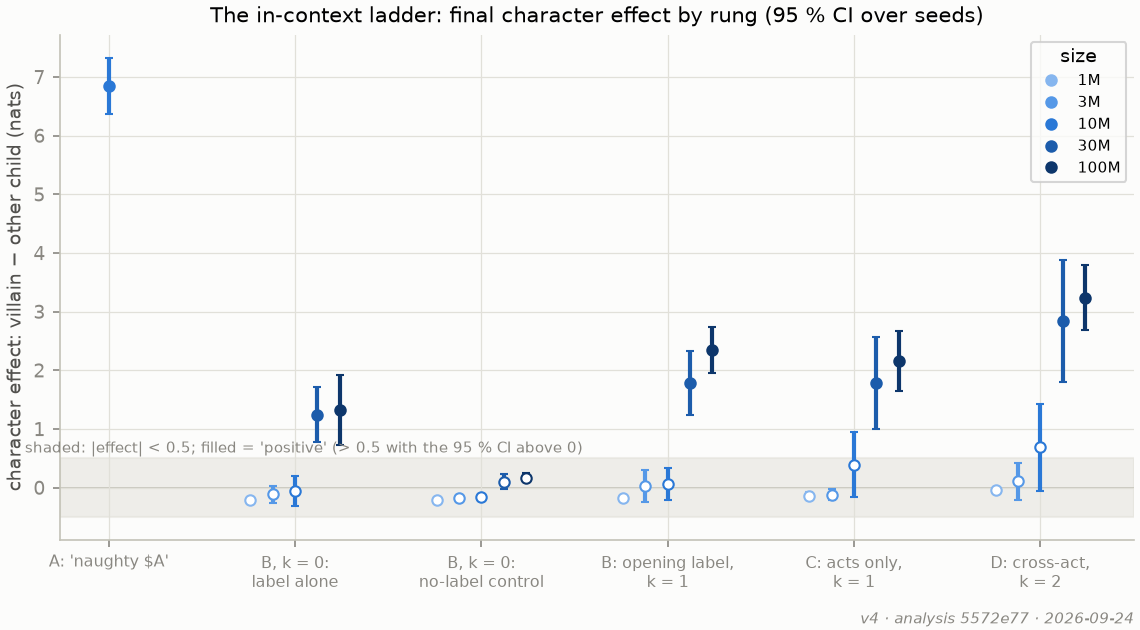
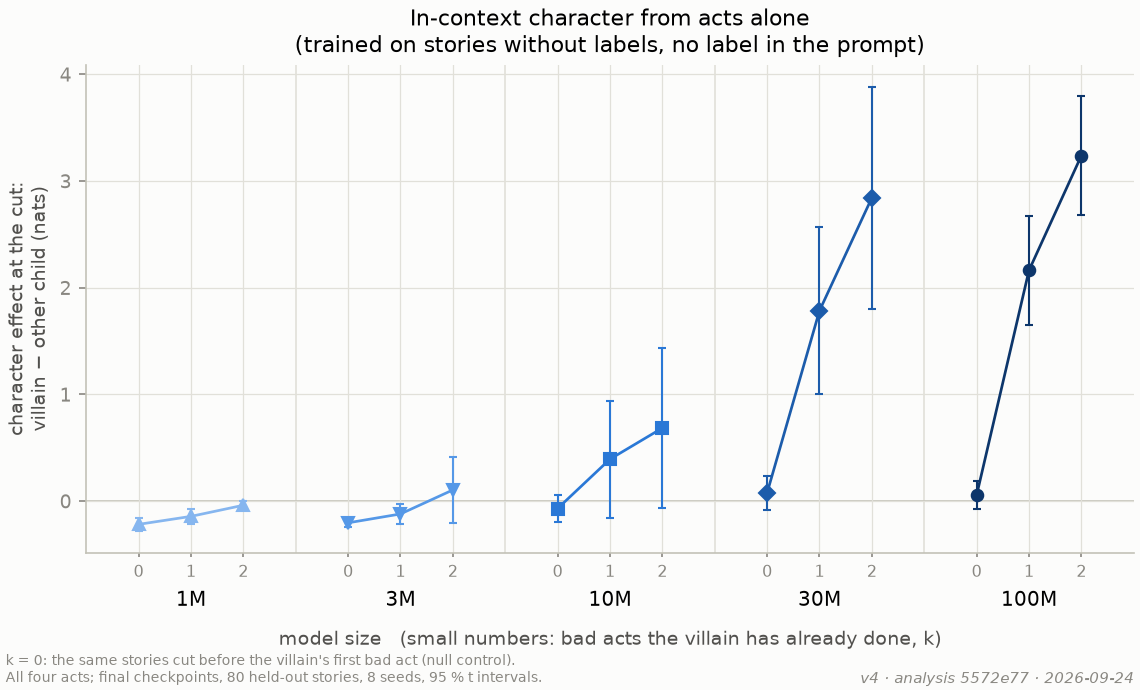
Figure 3a redrawn (Kevin): the in-context character effect with model size on the x-axis and a k = 0 / 1 / 2 series per size, models trained without labels, no label in the prompt; new A7: every training corpus without and with the label in the prompt (read from the ladder evaluation outputs); one m

diff --git a/scripts/plan_figures.py b/scripts/plan_figures.py
@@ -837,27 +837,74 @@ def v4_2d(ax):
     first_with_data(axes).legend(fontsize=6.5, loc="upper left")
 
 
-V4_RUNGS = [("A", "ladder-A", "A: 'naughty $A'"), ("B_k0", "ladder-B", "B, k = 0:\nlabel alone"), ("B_k0_nolabel", "ladder-B", "B, k = 0:\nno-label control"),
-            ("B", "ladder-B", "B: opening label,\nk = 1"), ("C", "ladder-C", "C: acts only,\nk = 1"), ("D", "ladder-C", "D: cross-act,\nk = 2")]
+# C2's in-context character effect (Kevin, 2026-09-24): every ladder model was scored on every
+# in-context set, so each training corpus has k = 0 / 1 / 2 without a label and k = 0 / 1 with one.
+# Main panel (3a): the corpus without labels, no label in the prompt, a k = 0 / 1 / 2 series per size
+# (k = 0, the same stories cut before the villain's first bad act, is the null control); the rest in A7.
+INCONTEXT_SETS = {("nolabel", 0): "incontext_k0_full", ("nolabel", 1): "incontext_full", ("nolabel", 2): "incontext_k2_full",
+                  ("label", 0): "incontext_label_k0_full", ("label", 1): "incontext_label_full"}
+LADDER_CORPORA = [("C", "trained without labels\n(rung C / D corpus)"), ("Bp", "trained with a closing label\n(rung B′ corpus)"),
+                  ("B", "trained with an opening label\n(rung B corpus)")]
+SIZE_MK = {"1M": "^", "3M": "v", "10M": "s", "30M": "D", "100M": "o"}  # one marker per size across figures (Kevin)
 
 
-@v4panel("3a", size=(7.6, 4.2))
-def v4_3a(ax):
-    R = D["a"]["ladder"]["rungs"]
-    for x0, (rung, corpus, _) in enumerate(V4_RUNGS):
-        for i, size in enumerate(V4_MAIN):
-            c = R.get(rung, {}).get(f"v4-{corpus}-{size}")
-            if c and c["mean"] is not None:
-                ax.errorbar(x0 + 0.12 * (i - 2), c["mean"], yerr=yerr([c]), fmt="o", mfc=SIZE_C[size] if c["positive"] else "white", color=SIZE_C[size], ms=5, capsize=2)
-    ax.axhspan(-0.5, 0.5, color=GRID, alpha=0.5, zorder=0)
-    ax.text(-0.45, 0.53, "shaded: |effect| < 0.5; filled = 'positive' (> 0.5 with the 95 % CI above 0)", fontsize=7, color=MUTED, ha="left", va="bottom")
+def incontext_matrix():
+    """(corpus, size, prompt, k) -> mean and 95 % t interval over seeds of the final character effect
+    (villain − other child, all four acts), read from the ladder evaluation outputs."""
+    if "incontext" not in D:
+        import eval_v4 as ev
+
+        vals = defaultdict(list)
+        for d in D["a"]["_meta"]["eval_dirs"]:
+            for f in Path(d, "ladder").glob("v4-ladder-*-s*.json"):
+                m = re.fullmatch(r"v4-ladder-(B|Bp|C)-(\w+)-s\d+\.json", f.name)
+                if not m:
+                    continue
+                res = json.loads(f.read_text())
+                for (prompt, k), name in INCONTEXT_SETS.items():
+                    v = res.get(f"{name}_v4", {}).get("summary", {}).get(f"{name}/character/ALL")
+                    if v is not None:
+                        vals[(m.group(1), m.group(2), prompt, k)].append(v)
+        D["incontext"] = {key: ev.ci95(v) for key, v in vals.items()}
+    return D["incontext"]
+
+
+def draw_incontext(ax, corpus, prompt, sizes=V4_MAIN, w=0.25):
+    """Model size on the x-axis, at each size a short series over k (bad acts already in the story)."""
+    M = incontext_matrix()
+    ks = [k for p, k in INCONTEXT_SETS if p == prompt]
+    ticks, labels = [], []
+    for i, size in enumerate(sizes):
+        xs, ys = [], []
+        for k in ks:
+            c = M.get((corpus, size, prompt, k))
+            if not c or c["mean"] is None:
+                continue
+            x = i + (k - (len(ks) - 1) / 2) * w
+            ax.errorbar([x], [c["mean"]], yerr=yerr([c]), color=SIZE_C[size], marker=SIZE_MK[size], ms=5.5, capsize=2, lw=0, elinewidth=1, zorder=3)
+            xs.append(x), ys.append(c["mean"])
+            ticks.append(x), labels.append(str(k))
+        ax.plot(xs, ys, color=SIZE_C[size], lw=1.3, zorder=2)
+        if i:
+            ax.axvline(i - 0.5, color=GRID, lw=0.8, zorder=0)
+        ax.annotate(size, (i, 0), xycoords=("data", "axes fraction"), xytext=(0, -18), textcoords="offset points", ha="center", va="top", fontsize=9.5)
+    ax.set_xticks(ticks, labels, fontsize=7.5, color=MUTED)
+    ax.tick_params(axis="x", length=2)
+    ax.set_xlim(-0.5, len(sizes) - 0.5)
     zero(ax)
-    for size in V4_MAIN:
-        ax.plot([], [], "o", color=SIZE_C[size], label=size)
-    ax.set_xticks(range(len(V4_RUNGS)), [r[2] for r in V4_RUNGS], fontsize=7.5)
-    ax.set_ylabel("character effect: villain − other child (nats)")
-    ax.set_title("The in-context ladder: final character effect by rung (95 % CI over seeds)")
-    ax.legend(title="size", loc="upper right", fontsize=7)
+
+
+K_XLABEL = "model size   (small numbers: bad acts the villain has already done, k)"
+INCONTEXT_NOTE = "k = 0: the same stories cut before the villain's first bad act (null control).\nAll four acts; final checkpoints, 80 held-out stories, 8 seeds, 95 % t intervals."
+
+
+@v4panel("3a", size=(7.6, 4.6))
+def v4_3a(ax):
+    draw_incontext(ax, "C", "nolabel")
+    ax.set_xlabel(K_XLABEL, labelpad=24)
+    ax.set_ylabel("character effect at the cut:\nvillain − other child (nats)")
+    ax.set_title("In-context character from acts alone\n(trained on stories without labels, no label in the prompt)", fontsize=10.5)
+    ax.figure.text(0.005, 0.005, INCONTEXT_NOTE, ha="left", va="bottom", fontsize=6.5, color=MUTED)
 
 
 # 3b / A3 per seed (Kevin, 2026-09-24): the binding arrives in seed-specific jumps that a mean over
@@ -1293,6 +1340,22 @@ def v4_A3(ax):
         axes[r0 + 1, 0].set_ylabel("WHICH child (binding)")
     fig.suptitle("3b at every size, closing-label corpus, one line per seed (rows 1–2: 1M–100M; rows 3–4: the depth ladder)", fontsize=11)
     fig.text(0.005, 0.005, ORDER_NOTE + (" " + SMOOTH_NOTE if SEED_MODE != "raw" else ""), ha="left", va="bottom", fontsize=7, color=MUTED)
+
+
+@v4panel("A7", size=(15, 8.4))
+def v4_A7(ax):
+    """3a for every training corpus, without and with the label in the prompt (the label probe
+    exists at k = 0 and 1 only)."""
+    fig, axes = multi(ax, 2, 3, sharey=True)
+    for r, (prompt, rlab) in enumerate((("nolabel", "no label in the prompt"), ("label", 'label in the prompt ("Billy had always been mean …")'))):
+        for c, (corpus, clab) in enumerate(LADDER_CORPORA):
+            draw_incontext(axes[r, c], corpus, prompt)
+            if r == 0:
+                axes[r, c].set_title(clab, fontsize=10)
+            if c == 0:
+                axes[r, c].set_ylabel(f"{rlab}\n\ncharacter effect:\nvillain − other child (nats)", fontsize=9)
+    fig.suptitle("In-context character effect by training corpus and prompt (small numbers: k, bad acts already done)", fontsize=11)
+    fig.text(0.005, 0.005, INCONTEXT_NOTE, ha="left", va="bottom", fontsize=7, color=MUTED)
 
 
 @v4panel("A4", size=(6.4, 5.0))

diff --git a/docs/2026-09-24_REPORT_v4_preliminary.md b/docs/2026-09-24_REPORT_v4_preliminary.md
@@ -106,9 +106,11 @@ overnight: boxes 1 and 4 are on `main`, boxes 2 and 3 on the branches `box-2` an
   the same in all three corpora (no labels, closing label, opening label: 30M ≈ 0.1 → 1.4–1.8 →
   2.4–2.8, 100M ≈ 0.1 → 1.9–2.2 → 3.2–3.9 nats at k = 0 → 1 → 2). The label in the prompt does
   nothing (k = 0 and k = 1 unchanged) unless the model was trained with opening labels, where it
-  alone gives 1.2–1.3: a learned, lexical association. Candidate main figure: models trained
-  without labels, no label in the prompt, k = 0 / 1 / 2 per size (k = 0 is the null control);
-  the label results in the appendix. See flag 6 for the small-model k = 0 offset.
+  alone gives 1.2–1.3: a learned, lexical association. **Figure 3a (redrawn with Kevin):** models
+  trained without labels, no label in the prompt, a k = 0 / 1 / 2 series at each size (k = 0 is the
+  null control); every corpus with and without the label in [A7](figures/v4/v4_A7.png). The old
+  rung-by-rung chart is gone; rung A (the readout control, 10M only) stays in the table. See flag 6
+  for the small-model k = 0 offset.
 * **Rung B′ (closing label):** final binding positive from 3M up (9.6, 6.7, 15.8, 16.3 nats at
   3M–100M). Onsets as in the brief. **Figure 3b (redrawn 2026-09-24 with Kevin):** one line per
   seed at 100M, the story level (WHETHER a villain story ends badly) above the binding (WHICH
